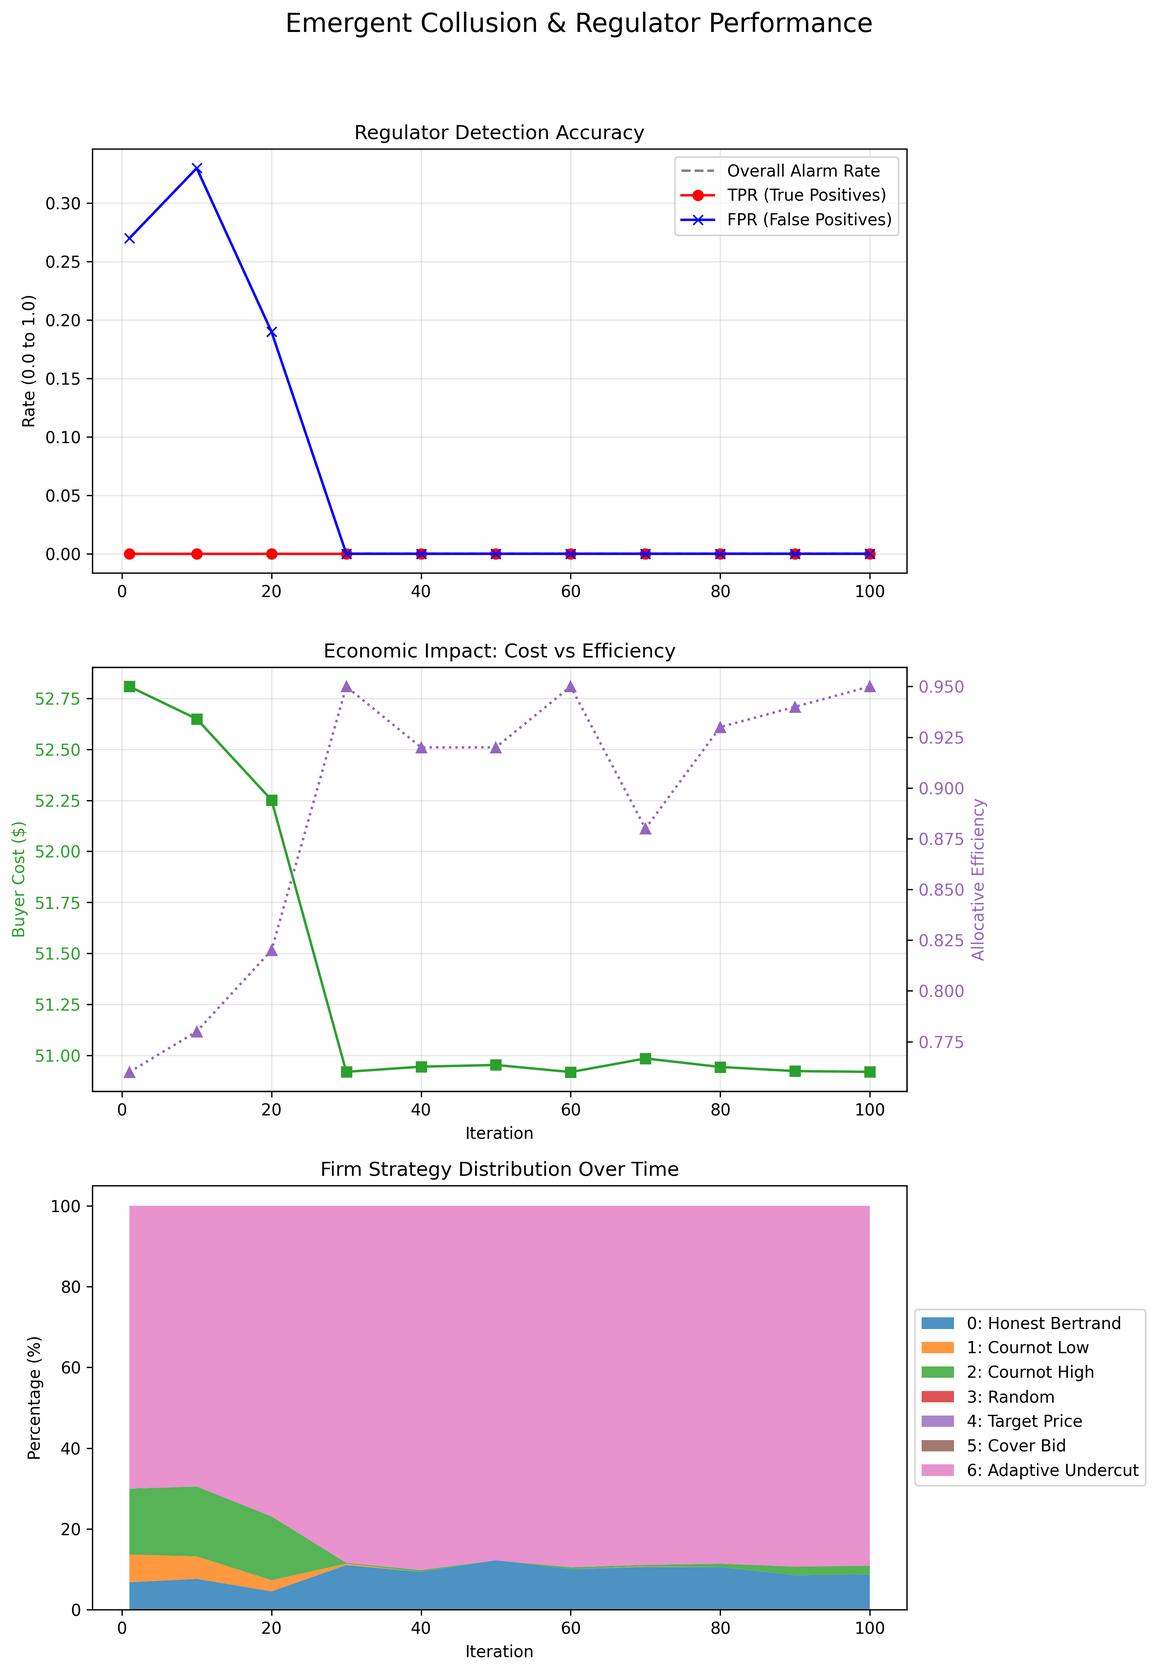
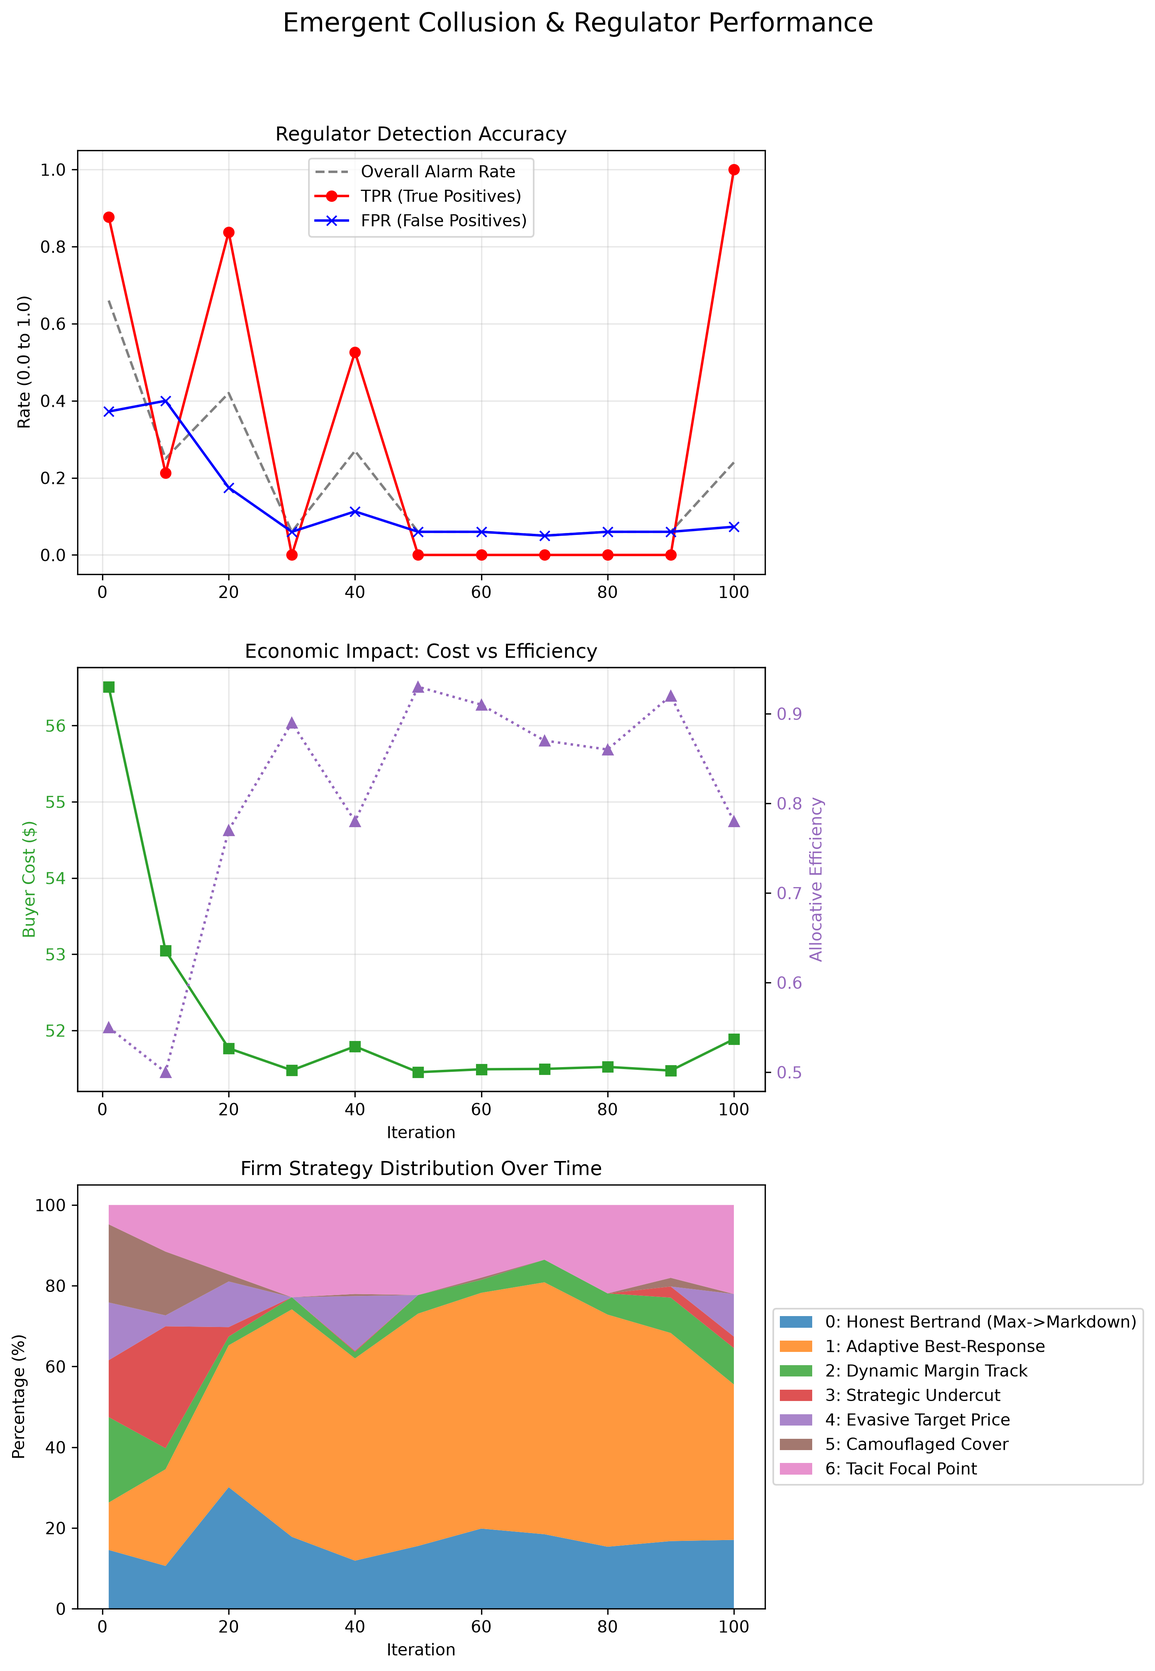
strategies update

diff --git a/emergent_procurement_env.py b/emergent_procurement_env.py
@@ -140,14 +140,14 @@ class ProcurementEmergentEnv(ParallelEnv):
         self.agents = self.possible_agents[:]
 
         # Actions: [Bidding Strategy (0-6), Admission Vote (0-1), Punishment Vote (0-1)]
-        # Bidding Strategies:
-        # 0: Honest Bertrand (cost * ~1.02)
-        # 1: Honest Cournot Low (cost * ~1.10)
-        # 2: Honest Cournot High (cost * ~1.20)
-        # 3: Honest Random (cost * ~1.25, noisy)
-        # 4: Dishonest Target Price (bid near reserve)
-        # 5: Dishonest Cover Bid (yield to designated winner, else bid high)
-        # 6: Adaptive Undercutting (bid slightly below previous winning bid)
+        # Overhauled Dynamic Economic Bidding Strategies:
+        # 0: Honest Bertrand (Max price initially, then competitive markdown from previous clearing price)
+        # 1: Adaptive Best-Response (Empirical surplus maximization based on winning history)
+        # 2: Dynamic Margin Tracking (Market-trend adaptive margin expansion/compression)
+        # 3: Strategic Adaptive Undercutting (Dynamic price shading proportional to cost gap)
+        # 4: Cartel Evasive Target Pricing (Market-anchored collusive rent seeking)
+        # 5: Cartel Camouflaged Cover Bidding (Anti-trust evasive cover bids trailing designated winner)
+        # 6: Tacit Collusion / Focal Point Bidding (Running median price anchoring)
         self._action_spaces = {
             agent: MultiDiscrete([7, 2, 2])
             for agent in self.possible_agents
@@ -171,6 +171,7 @@ class ProcurementEmergentEnv(ParallelEnv):
 
         self.private_costs = {}
         self.prev_winning_bid = self.reserve_price
+        self.winning_bid_history: List[float] = []
         self.round_num = 0
         self.regulator: Optional[BayesianSequentialRegulator] = None
         self._last_posterior = prior_h1
@@ -196,6 +197,7 @@ class ProcurementEmergentEnv(ParallelEnv):
         self.agents = self.possible_agents[:]
         self.round_num = 0
         self.prev_winning_bid = self.reserve_price
+        self.winning_bid_history = []
         self.private_costs = {
             agent: round(random.uniform(50.0, 60.0), 2) for agent in self.agents
         }
@@ -246,6 +248,22 @@ class ProcurementEmergentEnv(ParallelEnv):
         
         # 3. Cartel phase: Identify designated winner
         designated_winner = self.cartel.select_designated_winner(self.private_costs)
+
+        # Calculate history summary metrics for dynamic strategy calculations
+        if self.winning_bid_history:
+            recent_winning_bids = self.winning_bid_history[-5:]
+            avg_winning_bid = float(np.mean(recent_winning_bids))
+            std_winning_bid = max(1.0, float(np.std(recent_winning_bids)) if len(recent_winning_bids) > 1 else 2.5)
+        else:
+            avg_winning_bid = self.reserve_price * 0.95  # ~95.0 initial baseline
+            std_winning_bid = 2.5
+
+        # Pre-calculate designated winner's cartel target bid if cartel exists
+        designated_target_bid = None
+        if designated_winner and designated_winner in actions:
+            des_cost = self.private_costs[designated_winner]
+            collusive_target = min(self.reserve_price * 0.90, max(avg_winning_bid * 1.03, des_cost * 1.25))
+            designated_target_bid = round(max(des_cost * 1.02, min(collusive_target + random.uniform(-0.5, 0.5), self.reserve_price)), 2)
         
         # 4. Bidding phase
         bids = {}
@@ -254,44 +272,67 @@ class ProcurementEmergentEnv(ParallelEnv):
             cost = self.private_costs[agent]
             
             if strategy == 0:
-                # Honest Bertrand
-                markup = random.uniform(1.0, 1.05)
-            elif strategy == 1:
-                # Honest Cournot Low
-                markup = random.uniform(1.05, 1.15)
-            elif strategy == 2:
-                # Honest Cournot High
-                markup = random.uniform(1.15, 1.25)
-            elif strategy == 3:
-                # Honest Random
-                markup = random.uniform(1.0, 1.5)
-            elif strategy == 4:
-                # Dishonest Target Price
-                markup = (self.reserve_price / cost) * random.uniform(0.9, 1.0)
-            elif strategy == 5:
-                # Dishonest Cover Bid
-                if agent == designated_winner:
-                    # Win near cost or slightly inflated
-                    markup = random.uniform(1.0, 1.1)
+                # Honest Bertrand (Max price in Round 1, then competitive markdown from previous winning bid)
+                if not self.winning_bid_history:
+                    raw_bid = self.reserve_price
                 else:
-                    # Cover bid near reserve
-                    markup = (self.reserve_price / cost) * random.uniform(0.95, 1.0)
+                    markdown_pct = random.uniform(0.01, 0.03)
+                    target_bid = self.prev_winning_bid * (1.0 - markdown_pct)
+                    raw_bid = max(cost * 1.01, target_bid)
+            elif strategy == 1:
+                # Adaptive Best-Response (Empirical Surplus Optimization)
+                if avg_winning_bid > cost:
+                    lambda_param = random.uniform(0.40, 0.60)
+                    target_surplus = lambda_param * (avg_winning_bid - cost)
+                    raw_bid = cost + target_surplus + random.uniform(-0.5, 0.5)
+                else:
+                    raw_bid = cost * random.uniform(1.02, 1.05)
+            elif strategy == 2:
+                # Dynamic Margin Tracking (Market Trend Shading)
+                price_trend = avg_winning_bid / self.reserve_price
+                markup = 1.0 + (0.15 * price_trend) + random.uniform(-0.01, 0.01)
+                raw_bid = cost * max(1.015, markup)
+            elif strategy == 3:
+                # Strategic Adaptive Undercutting (Dynamic Price Shading)
+                gap = self.prev_winning_bid - cost
+                if gap > 1.0:
+                    undercut_pct = 0.01 + 0.02 * min(1.0, gap / max(1.0, self.reserve_price - cost))
+                    target_bid = self.prev_winning_bid * (1.0 - undercut_pct)
+                    raw_bid = max(cost * 1.01, target_bid) + random.uniform(-0.2, 0.2)
+                else:
+                    raw_bid = cost * random.uniform(1.01, 1.03)
+            elif strategy == 4:
+                # Cartel Evasive Target Pricing (Market-Anchored Monopoly Rent)
+                collusive_target = min(self.reserve_price * 0.90, max(avg_winning_bid * 1.03, cost * 1.25))
+                raw_bid = collusive_target + random.uniform(-0.75, 0.75)
+            elif strategy == 5:
+                # Cartel Camouflaged Cover Bidding (Anti-Trust Evasive Cover Bids)
+                if agent == designated_winner:
+                    if designated_target_bid is not None:
+                        raw_bid = designated_target_bid
+                    else:
+                        collusive_target = min(self.reserve_price * 0.90, max(avg_winning_bid * 1.03, cost * 1.25))
+                        raw_bid = collusive_target + random.uniform(-0.5, 0.5)
+                else:
+                    # Cover bidder: bid slightly above designated winner's bid with realistic noise
+                    # so that it trails the winner closely without triggering obvious level/variance alarms
+                    base_target = designated_target_bid if designated_target_bid is not None else avg_winning_bid
+                    cover_offset = random.uniform(1.5, 4.0) + max(0.0, random.gauss(0, std_winning_bid * 0.5))
+                    raw_bid = base_target + cover_offset
             elif strategy == 6:
-                # Adaptive Undercutting
-                # Try to undercut the previous winning bid by 1-2%, but never bid below cost + 1%
-                target_bid = self.prev_winning_bid * random.uniform(0.98, 0.99)
-                min_viable_bid = cost * 1.01
-                bid_value = max(target_bid, min_viable_bid)
-                markup = bid_value / cost
+                # Tacit Collusion / Focal Point Bidding (Running Median Anchoring)
+                focal_price = avg_winning_bid
+                firm_offset = random.uniform(0.0, 0.04)
+                raw_bid = max(cost * 1.02, focal_price * (1.0 + firm_offset) + random.uniform(-0.3, 0.3))
             else:
-                markup = 1.0
+                raw_bid = cost * 1.02
                 
-            raw_bid = cost * markup
-            bids[agent] = round(max(cost * 1.00, min(raw_bid, self.reserve_price)), 2)
+            bids[agent] = round(max(cost * 1.01, min(raw_bid, self.reserve_price)), 2)
 
         valid_bids = {k: v for k, v in bids.items() if v <= self.reserve_price}
         winner = min(valid_bids, key=valid_bids.get)
         winning_bid = valid_bids[winner]
+        self.winning_bid_history.append(winning_bid)
         self.prev_winning_bid = winning_bid
 
         # 5. Defector Check & Punishment
@@ -350,26 +391,37 @@ class ProcurementEmergentEnv(ParallelEnv):
 # =====================================================================
 # 3. Calibration reference bidders
 # =====================================================================
-def _competitive_calibration_bidder(cost: float, reserve_price: float) -> float:
-    # Randomly select among the honest strategies available to RL agents,
-    # heavily weighting Bertrand (strategy 0) so the regulator expects tight clusters
-    # as normal competitive behavior.
-    if random.random() < 0.90:
-        markup = random.uniform(1.0, 1.05) # Strategy 0
+def _competitive_calibration_bidder(cost: float, reserve_price: float, prev_winning_bid: float = 95.0) -> float:
+    # Simulates competitive reference bidders using history-aware strategies 0, 1, 2, 3
+    strat = random.choices([0, 1, 2, 3], weights=[0.50, 0.25, 0.15, 0.10])[0]
+    avg_w = prev_winning_bid
+    if strat == 0:
+        if avg_w >= reserve_price or avg_w >= 95.0:
+            raw = reserve_price
+        else:
+            markdown_pct = random.uniform(0.01, 0.03)
+            raw = max(cost * 1.01, avg_w * (1.0 - markdown_pct))
+    elif strat == 1:
+        if avg_w > cost:
+            raw = cost + random.uniform(0.40, 0.60) * (avg_w - cost) + random.uniform(-0.5, 0.5)
+        else:
+            raw = cost * random.uniform(1.02, 1.05)
+    elif strat == 2:
+        price_trend = avg_w / reserve_price
+        raw = cost * max(1.015, 1.0 + (0.15 * price_trend) + random.uniform(-0.01, 0.01))
     else:
-        strategy = random.randint(1, 3)
-        if strategy == 1:
-            markup = random.uniform(1.05, 1.15)
-        elif strategy == 2:
-            markup = random.uniform(1.15, 1.25)
-        else:  # strategy == 3
-            markup = random.uniform(1.0, 1.5)
-        
-    return round(min(cost * markup, reserve_price), 2)
+        gap = avg_w - cost
+        if gap > 1.0:
+            target = avg_w * (1.0 - (0.01 + 0.02 * min(1.0, gap / max(1.0, reserve_price - cost))))
+            raw = max(cost * 1.01, target) + random.uniform(-0.2, 0.2)
+        else:
+            raw = cost * random.uniform(1.01, 1.03)
+    return round(max(cost * 1.01, min(raw, reserve_price)), 2)
 
-def _collusive_calibration_bidder(cost: float, reserve_price: float) -> float:
-    markup = random.uniform(0.90, 0.98) * (reserve_price / cost)
-    return round(min(cost * markup, reserve_price), 2)
+def _collusive_calibration_bidder(cost: float, reserve_price: float, prev_winning_bid: float = 70.0) -> float:
+    collusive_target = min(reserve_price * 0.90, max(prev_winning_bid * 1.03, cost * 1.25))
+    raw = collusive_target + random.uniform(-0.75, 0.75)
+    return round(max(cost * 1.01, min(raw, reserve_price)), 2)
 
 def _uniform_markup_calibration_bidder(cost: float, reserve_price: float) -> float:
     markup = _UNIFORM_MARKUP_SEVERITY[0]
@@ -377,12 +429,14 @@ def _uniform_markup_calibration_bidder(cost: float, reserve_price: float) -> flo
 
 _UNIFORM_MARKUP_SEVERITY = [1.2]
 
-def _complementary_calibration_bidder(cost: float, reserve_price: float, is_designated: bool) -> float:
+def _complementary_calibration_bidder(cost: float, reserve_price: float, is_designated: bool, des_bid: float = 75.0) -> float:
     if is_designated:
-        markup = random.uniform(1.00, 1.06)
+        collusive_target = min(reserve_price * 0.90, max(des_bid * 1.03, cost * 1.25))
+        raw = collusive_target + random.uniform(-0.5, 0.5)
     else:
-        markup = _UNIFORM_MARKUP_SEVERITY[0]
-    return round(min(cost * markup, reserve_price), 2)
+        cover_offset = random.uniform(1.5, 4.0) + max(0.0, random.gauss(0, 1.5))
+        raw = des_bid + cover_offset
+    return round(max(cost * 1.01, min(raw, reserve_price)), 2)
 
 def calibrate_emergent_likelihoods(
     reserve_price: float = 100.0,
@@ -396,9 +450,11 @@ def calibrate_emergent_likelihoods(
 
     rng0 = random.Random(seed0)
     for ep in range(n_episodes):
+        prev_win = 60.0
         for _ in range(rounds_per_episode):
             costs = {f"f{i}": rng0.uniform(50.0, 60.0) for i in range(total_firms)}
-            bids = {k: _competitive_calibration_bidder(c, reserve_price) for k, c in costs.items()}
+            bids = {k: _competitive_calibration_bidder(c, reserve_price, prev_win) for k, c in costs.items()}
+            prev_win = min(bids.values())
             screens = compute_screens(bids, reserve_price=reserve_price)
             for k, v in screens.items():
                 samples[0][k].append(v)
@@ -407,16 +463,20 @@ def calibrate_emergent_likelihoods(
     for ep in range(n_episodes):
         archetype = rng1.choice(["target_price", "uniform_markup", "complementary"])
         _UNIFORM_MARKUP_SEVERITY[0] = rng1.uniform(1.10, 1.60)
-        designated = f"f0"
+        designated = "f0"
+        prev_win = 75.0
         for _ in range(rounds_per_episode):
             costs = {f"f{i}": rng1.uniform(50.0, 60.0) for i in range(total_firms)}
             if archetype == "target_price":
-                bids = {k: _collusive_calibration_bidder(c, reserve_price) for k, c in costs.items()}
+                bids = {k: _collusive_calibration_bidder(c, reserve_price, prev_win) for k, c in costs.items()}
             elif archetype == "uniform_markup":
                 bids = {k: _uniform_markup_calibration_bidder(c, reserve_price) for k, c in costs.items()}
             else:
-                bids = {k: _complementary_calibration_bidder(c, reserve_price, k == designated)
+                des_cost = costs[designated]
+                des_bid = _collusive_calibration_bidder(des_cost, reserve_price, prev_win)
+                bids = {k: _complementary_calibration_bidder(c, reserve_price, k == designated, des_bid)
                          for k, c in costs.items()}
+            prev_win = min(bids.values())
             screens = compute_screens(bids, reserve_price=reserve_price)
             for k, v in screens.items():
                 samples[1][k].append(v)
@@ -441,9 +501,11 @@ def calibrate_emergent_thresholds(
         reg = BayesianSequentialRegulator(
             l0, l1, RegulatorConfig(cusum_threshold=np.inf, sr_threshold=np.inf)
         )
+        prev_win = 60.0
         for _ in range(rounds_per_episode):
             costs = {f"f{i}": rng.uniform(50.0, 60.0) for i in range(total_firms)}
-            bids = {k: _competitive_calibration_bidder(c, reserve_price) for k, c in costs.items()}
+            bids = {k: _competitive_calibration_bidder(c, reserve_price, prev_win) for k, c in costs.items()}
+            prev_win = min(bids.values())
             reg.update(bids)
         max_cusum.append(max(h["cusum"] for h in reg.history))
         max_log_sr.append(max(h["log_shiryaev_roberts"] for h in reg.history))

diff --git a/simulation_menu.py b/simulation_menu.py
@@ -37,14 +37,16 @@ def run_menu():
             print("Invalid choice.")
 
 def run_custom_simulation():
+    from train_emergent_rl import RESERVE_PRICE, TOTAL_FIRMS
+
     try:
         rounds = int(input("\nEnter number of rounds to simulate (e.g., 20): "))
-        cartel_count = int(input("Enter number of cartel firms (0-20): "))
+        cartel_count = int(input(f"Enter number of cartel firms (0-{TOTAL_FIRMS}): "))
     except ValueError:
         print("Invalid input.")
         return
 
-    honest_count = 20 - cartel_count
+    honest_count = TOTAL_FIRMS - cartel_count
     
     print(f"\nInitializing simulation with {rounds} rounds, {cartel_count} cartel firms, and {honest_count} honest firms...")
     
@@ -53,7 +55,6 @@ def run_custom_simulation():
         calibrate_emergent_likelihoods,
         calibrate_emergent_thresholds,
     )
-    from train_emergent_rl import RESERVE_PRICE, TOTAL_FIRMS
     
     print("Calibrating regulator (Fast Mode)...")
     l0, l1 = calibrate_emergent_likelihoods(
@@ -90,9 +91,9 @@ def run_custom_simulation():
         actions = {}
         for a in env.agents:
             if a in cartel_firms:
-                act = np.array([5, 1, 1]) # Strategy 5: Cover Bid
+                act = np.array([5, 1, 1]) # Strategy 5: Camouflaged Cover Bidding
             else:
-                act = np.array([6, 0, 0]) # Strategy 6: Adaptive Undercut
+                act = np.array([3, 0, 0]) # Strategy 3: Strategic Adaptive Undercutting
             actions[a] = act
 
         obs, rewards, terms, truncs, infos = env.step(actions)

diff --git a/train_emergent_rl.py b/train_emergent_rl.py
@@ -42,6 +42,7 @@ from emergent_procurement_env import (
 ROUNDS_PER_EPISODE = 20
 TOTAL_FIRMS = 20
 RESERVE_PRICE = 100.0
+NUM_ITERATIONS = 100
 CHECKPOINT_DIR = os.path.abspath("./procurement_model_checkpoint")
 COADAPTATION_LOG = os.path.abspath("./coadaptation_log.csv")
 
@@ -200,7 +201,7 @@ def main():
         print("\n---> No existing checkpoint found. Training from scratch...")
 
     print("\n" + "=" * 60)
-    print(" STARTING TRAINING LOOP (100 ITERATIONS, EMERGENT ENV)")
+    print(f" STARTING TRAINING LOOP ({NUM_ITERATIONS} ITERATIONS, {TOTAL_FIRMS} FIRMS)")
     print("=" * 60)
 
     with open(COADAPTATION_LOG, "w", newline="") as f:
@@ -211,7 +212,7 @@ def main():
                           "strat_0_pct", "strat_1_pct", "strat_2_pct", 
                           "strat_3_pct", "strat_4_pct", "strat_5_pct", "strat_6_pct"])
 
-        for i in range(1, 101):
+        for i in range(1, NUM_ITERATIONS + 1):
             result = algo.train()
 
             if "env_runners" in result and "policy_reward_mean" in result["env_runners"]:

diff --git a/plot_metrics.py b/plot_metrics.py
@@ -48,7 +48,7 @@ def plot_metrics():
     # 3. Strategy Distribution
     ax3 = axes[2]
     strats = ['strat_0_pct', 'strat_1_pct', 'strat_2_pct', 'strat_3_pct', 'strat_4_pct', 'strat_5_pct', 'strat_6_pct']
-    labels = ['0: Honest Bertrand', '1: Cournot Low', '2: Cournot High', '3: Random', '4: Target Price', '5: Cover Bid', '6: Adaptive Undercut']
+    labels = ['0: Honest Bertrand (Max->Markdown)', '1: Adaptive Best-Response', '2: Dynamic Margin Track', '3: Strategic Undercut', '4: Evasive Target Price', '5: Camouflaged Cover', '6: Tacit Focal Point']
     
     # Filter only columns that exist
     available_strats = [s for s in strats if s in df.columns]

diff --git a/README.md b/README.md
@@ -13,19 +13,20 @@ If the regulator detects anomalous bidding patterns indicative of collusion, it 
 ## Implementation Details & Technicalities
 
 ### 1. Multi-Discrete Action Spaces
-Firms do not simply choose a continuous markup. Instead, they operate in a `MultiDiscrete([6, 2, 2])` action space representing:
-- **Bidding Strategy (0-5)**: The firm's choice of economic bidding behaviour.
+Firms do not simply choose a continuous markup. Instead, they operate in a `MultiDiscrete([7, 2, 2])` action space representing:
+- **Bidding Strategy (0-6)**: The firm's choice of dynamic economic bidding behavior.
 - **Admission Vote (0-1)**: The firm's vote on how the cartel should admit new members.
 - **Punishment Vote (0-1)**: The firm's vote on how the cartel should punish defectors.
 
-### 2. Firm Strategies
-Firms can choose between several honest and dishonest economic strategies every round:
-- **0: Honest Bertrand:** Bids aggressively near actual cost to undercut competitors.
-- **1: Honest Cournot (Low):** Bids with a low, competitive markup.
-- **2: Honest Cournot (High):** Bids with a moderate markup.
-- **3: Honest Random:** Bids with highly variable noise, introducing unpredictability.
-- **4: Dishonest Target Price:** Bids near the regulator's reserve price (maximally collusive).
-- **5: Dishonest Cover Bid:** If the firm is the "designated winner" of the cartel, it bids near cost to secure the win. Otherwise, it intentionally bids high to create a "cover" for the designated winner.
+### 2. Overhauled Firm Strategies (Dynamic & History-Aware)
+Firms dynamically calculate bids based on past auction clearing history, cost structure, and competitor behavior rather than static predefined multiplier ranges:
+- **0: Honest Bertrand (Max -> Markdown):** Bids the maximum price (Reserve Price) in Round 1, then applies a competitive markdown ($1\%-3\%$) from the previous market clearing price in subsequent rounds.
+- **1: Adaptive Best-Response:** Empirical surplus maximization ($b_i = c_i + \lambda(\bar{W} - c_i)$) based on historical winning bid distribution.
+- **2: Dynamic Margin Tracking:** Market-trend adaptive pricing where profit margin expands/compresses dynamically with overall market clearing trends.
+- **3: Strategic Adaptive Undercutting:** Dynamic price shading relative to the gap between previous winning bid and private cost ($b_i = \text{prev\_win} \times (1 - u)$).
+- **4: Cartel Evasive Target Pricing:** Market-anchored collusive rent seeking ($\min(0.90R, 1.03\bar{W})$) with natural noise to evade static detection.
+- **5: Cartel Camouflaged Cover Bidding:** Sophisticated cartel coordination. The designated winner bids the collusive target price ($B_{\text{target}}$), while cover bidders bid closely trailing cover bids ($B_{\text{target}} + \Delta_i + \eta_i$) with realistic variance. Cover bids stay strictly higher than the winner's bid while blending into the competitive bid distribution to evade regulator anti-trust screens.
+- **6: Tacit Collusion / Focal Point Bidding:** Tacit price leadership where firms anchor bids around the running median of historical winning prices with small firm-specific offsets.
 
 ### 3. Cartel Mechanics
 Cartel behaviour is not scripted top-down; it is dynamically managed by a `Cartel` class that processes the firms' votes to determine collective policies:
